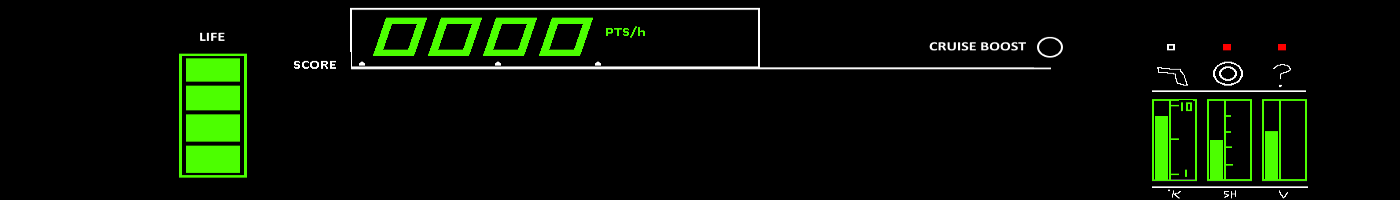
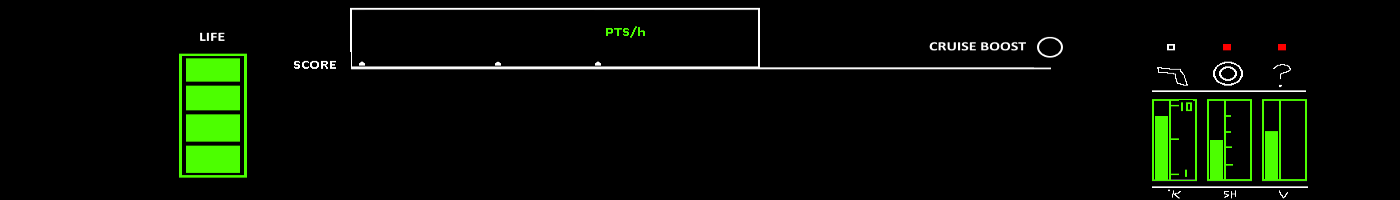
got score ui working. tweaked a bunch of numbers

Changed region(s): [[0.2457, 0.06, 0.43, 0.3]]

diff --git a/ui/score.js b/ui/score.js
@@ -1,51 +1,40 @@
-const SCORE_BASE_POSITION_X = 250;
-const SCORE_BASE_POSITION_Y = 750 ;
+const SCORE_BASE_POSITION_X = 480;
+const SCORE_BASE_POSITION_Y = 742 ;
+
+const SCORE_BUFFER_EMPTY_DELAY = 100;
 
 class Score {
   constructor() {
-    this.score;
-    this.score_buffer;
-    this.score_label;
-    this.score_label_tween;
-
     this.previous_score = last_score;
     this.score = last_score;
     this.score_buffer = 0;
 
-    this.background = game.add.sprite(SCORE_BASE_POSITION_X, SCORE_BASE_POSITION_Y, "score_bg");
-    this.background.anchor.setTo(0.5, 0.5);
-
-    this.static_score_text = game.add.text(SCORE_BASE_POSITION_X, SCORE_BASE_POSITION_Y - 22, "SCORE", {
-      font: "24px prstart",
-      fill: "#FF0000",
+    this.score_label = game.add.text(SCORE_BASE_POSITION_X, SCORE_BASE_POSITION_Y, this.create_score_label(), {
+      font: "42px prstart",
+      fill: "#4CFF00",
       align: "center",
-      fontWeight: "bold"
-    });
-    this.static_score_text.anchor.setTo(0.5, 0.5);
-    this.static_score_text.align = 'center';
-
-    this.score_label = game.add.text(SCORE_BASE_POSITION_X, SCORE_BASE_POSITION_Y + 15, this.create_score_label(), {
-      font: "36px prstart",
-      fill: "#FFFFFF",
-      align: "center"
+      fontWeight: "italic"
     });
     this.score_label.anchor.setTo(0.5, 0.5);
     this.score_label.align = 'center';
 
-    this.score_label_tween = game.add.tween(this.score_label.scale).to({ x: 1.1, y: 1.1 }, 150, Phaser.Easing.Linear.In).to({ x: 1, y: 1}, 200, Phaser.Easing.Linear.In)
+    this.score_label_tween = game.add.tween(this.score_label.scale).to({ x: 1.05, y: 1.05 }, SCORE_BUFFER_EMPTY_DELAY, Phaser.Easing.Linear.In).to({ x: 1, y: 1}, SCORE_BUFFER_EMPTY_DELAY, Phaser.Easing.Linear.In)
+
+    this.next_buffer_empty = game.time.now;
   }
 
   update() {
-    if(this.score_buffer > 0) {
+    if(this.score_buffer > 0 && (game.time.now > this.next_buffer_empty)) {
       this.score += 1;
       this.score_label_tween.start();
       this.score_label.text = this.create_score_label();
       this.score_buffer--;
+      this.next_buffer_empty = game.time.now + SCORE_BUFFER_EMPTY_DELAY;
     }
   }
 
   create_score_label() {
-    var score_total_digits = 10;
+    var score_total_digits = 4;
     var digits_to_create = score_total_digits - this.score.toString().length;
 
     var score_label_text = "";
@@ -60,7 +49,5 @@ class Score {
   destroy() {
     last_score += (this.score + this.score_buffer) - this.previous_score;
     this.score_label.destroy();
-    this.static_score_text.destroy();
-    this.background.destroy();
   }
 }

diff --git a/player/circle_weapon.js b/player/circle_weapon.js
@@ -1,4 +1,4 @@
-const CIRCLE_SHOOT_DELAY = 200;
+const CIRCLE_SHOOT_DELAY = 400;
 
 class CircleWeapon {
   constructor(mecha) {
@@ -22,14 +22,14 @@ class CircleWeapon {
 
   update(controls) {
     if(controls.sword && !this.active && game.time.now > this.shoot_time) {
-      this.sprite.visible = true;
+      this.sprite.revive();
       this.active = true;
       var tween = game.add.tween(this.sprite.scale).to( { x:2.5, y:2.5 }, CIRCLE_SHOOT_DELAY, Phaser.Easing.Exponential.Out, true).yoyo(true);
       tween.onComplete.add(function() {
         this.active = false;
+        this.sprite.kill();
         this.sprite.scale.x = 0.1;
         this.sprite.scale.y = 0.1;
-        this.sprite.visible = false;
         this.shoot_time = game.time.now + CIRCLE_SHOOT_DELAY;
       }, this)
     }

diff --git a/level.js b/level.js
@@ -25,7 +25,10 @@ class Level {
   }
 
   update() {
-    game.physics.arcade.overlap(this.mecha.circle_weapon.sprite,  this.enemy_manager.bad_guys, this.handle_collision, null, this);
+    if(this.mecha.circle_weapon.active) {
+      game.physics.arcade.overlap(this.mecha.circle_weapon.sprite,  this.enemy_manager.bad_guys, this.handle_collision, null, this);
+    }
+
     game.physics.arcade.overlap(this.mecha.bullet_weapon.bullets, this.enemy_manager.bad_guys, this.handle_collision, null, this);
     var visible_bullets = this.enemy_manager.all_bullets.getAll('alive', true);
     game.physics.arcade.overlap(this.mecha.sprite, visible_bullets, this.handle_player_hit, null, this);

diff --git a/player/bullet_weapon.js b/player/bullet_weapon.js
@@ -46,7 +46,7 @@ class BulletWeapon {
 
       if (bullet && this.overheated == false) {
         this.heat += HEAT_GENERATED_PER_SHOT;
-        bullet.reset(this.mecha.sprite.body.x + this.mecha.sprite.width/2, this.mecha.sprite.body.y + this.mecha.sprite.height/2);
+        bullet.reset(this.mecha.sprite.body.x + this.mecha.sprite.body.width/2, this.mecha.sprite.body.y + this.mecha.sprite.body.height/2);
         bullet.lifespan = BULLET_LIFESPAN;
         game.physics.arcade.velocityFromRotation(this.mecha.sprite.rotation, this.mecha.sprite.body.speed + BULLET_ADDITIONAL_SPEED, bullet.body.velocity);
         this.bullet_time = game.time.now + BULLET_DELAY;

diff --git a/enemy_manager.js b/enemy_manager.js
@@ -101,10 +101,10 @@ class EnemyManager {
 
       random_dead_bad_guy.bullet_time = game.time.now + random_dead_bad_guy.get_initial_delay() + ENEMY_SPAWN_TWEEN_TIME;
       random_dead_bad_guy.visible = true;
-      random_dead_bad_guy.revive();
 
       random_dead_bad_guy.alpha = 0.3;
-      game.add.tween(random_dead_bad_guy).to({ alpha: 1 } , ENEMY_SPAWN_TWEEN_TIME, Phaser.Easing.Exponential.In, true);
+      var phase_in_tween = game.add.tween(random_dead_bad_guy).to({ alpha: 1 } , ENEMY_SPAWN_TWEEN_TIME, Phaser.Easing.Exponential.In, true);
+      phase_in_tween.onComplete.add(function(){ random_dead_bad_guy.revive(); }, this)
     }
   }
 

diff --git a/player/player_ship.js b/player/player_ship.js
@@ -67,7 +67,6 @@ class PlayerShip {
   activate_shield() {
     this.shield_sprite.visible = true;
     this.shield_sprite.active = true;
-    //game.add.tween(this.shield_sprite).to( { } )
   }
 
   destroy_shield() {
@@ -78,7 +77,9 @@ class PlayerShip {
   render() {
     this.flames.render();
     this.bullet_weapon.render();
-    game.debug.body(this.sprite);
+    //game.debug.body(this.sprite);
+    //game.debug.body(this.shield_sprite);
+    //game.debug.body(this.circle_weapon.sprite);
   }
 
   take_damage() {
